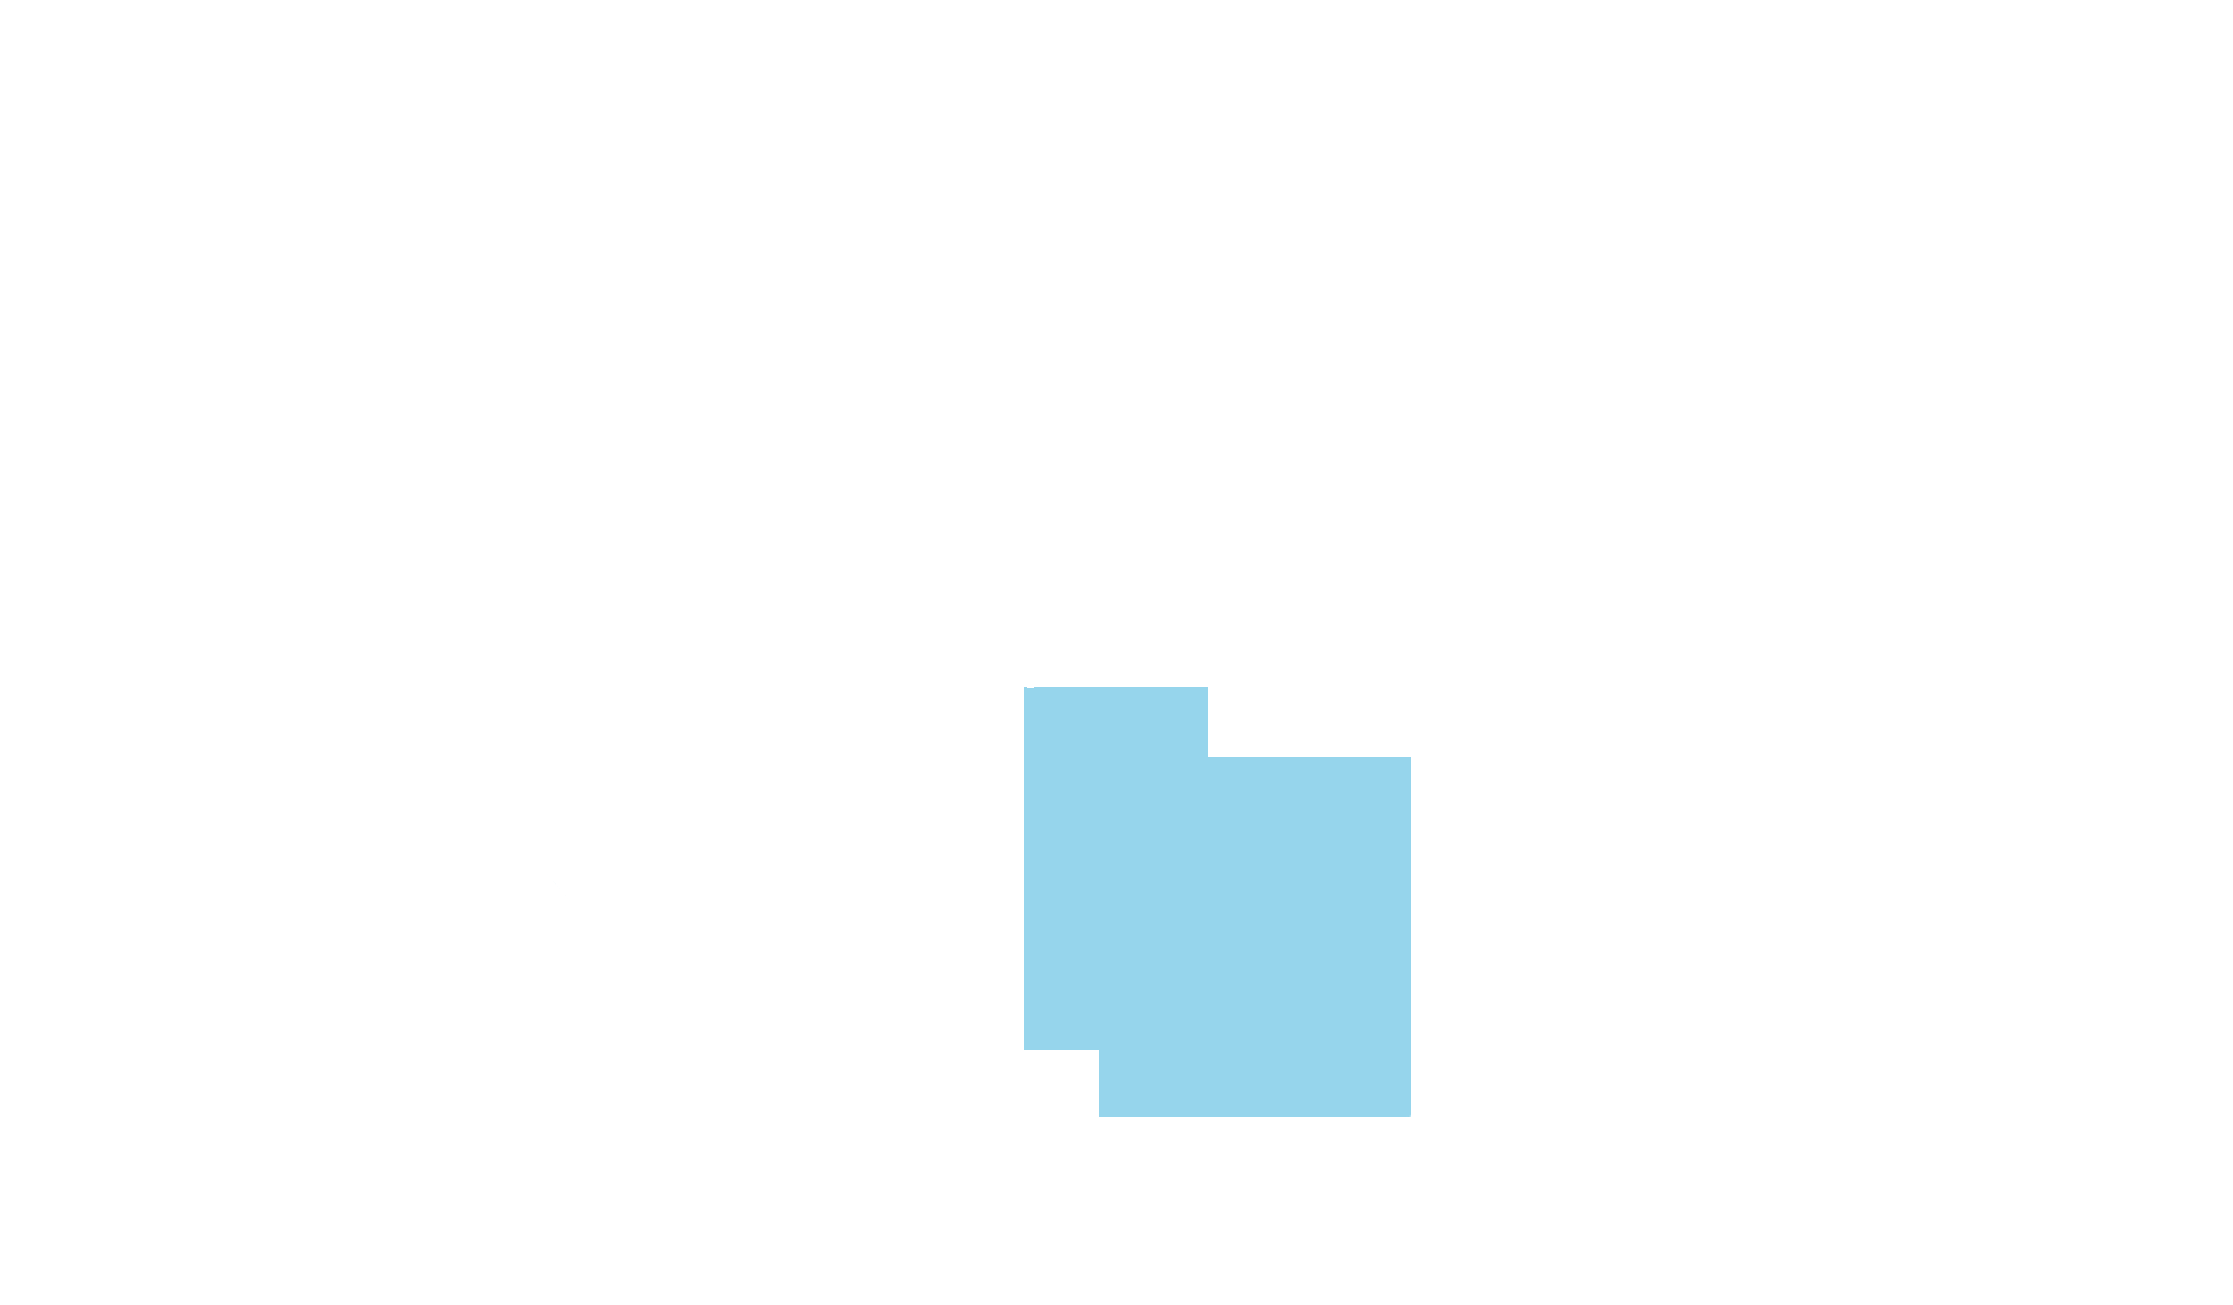
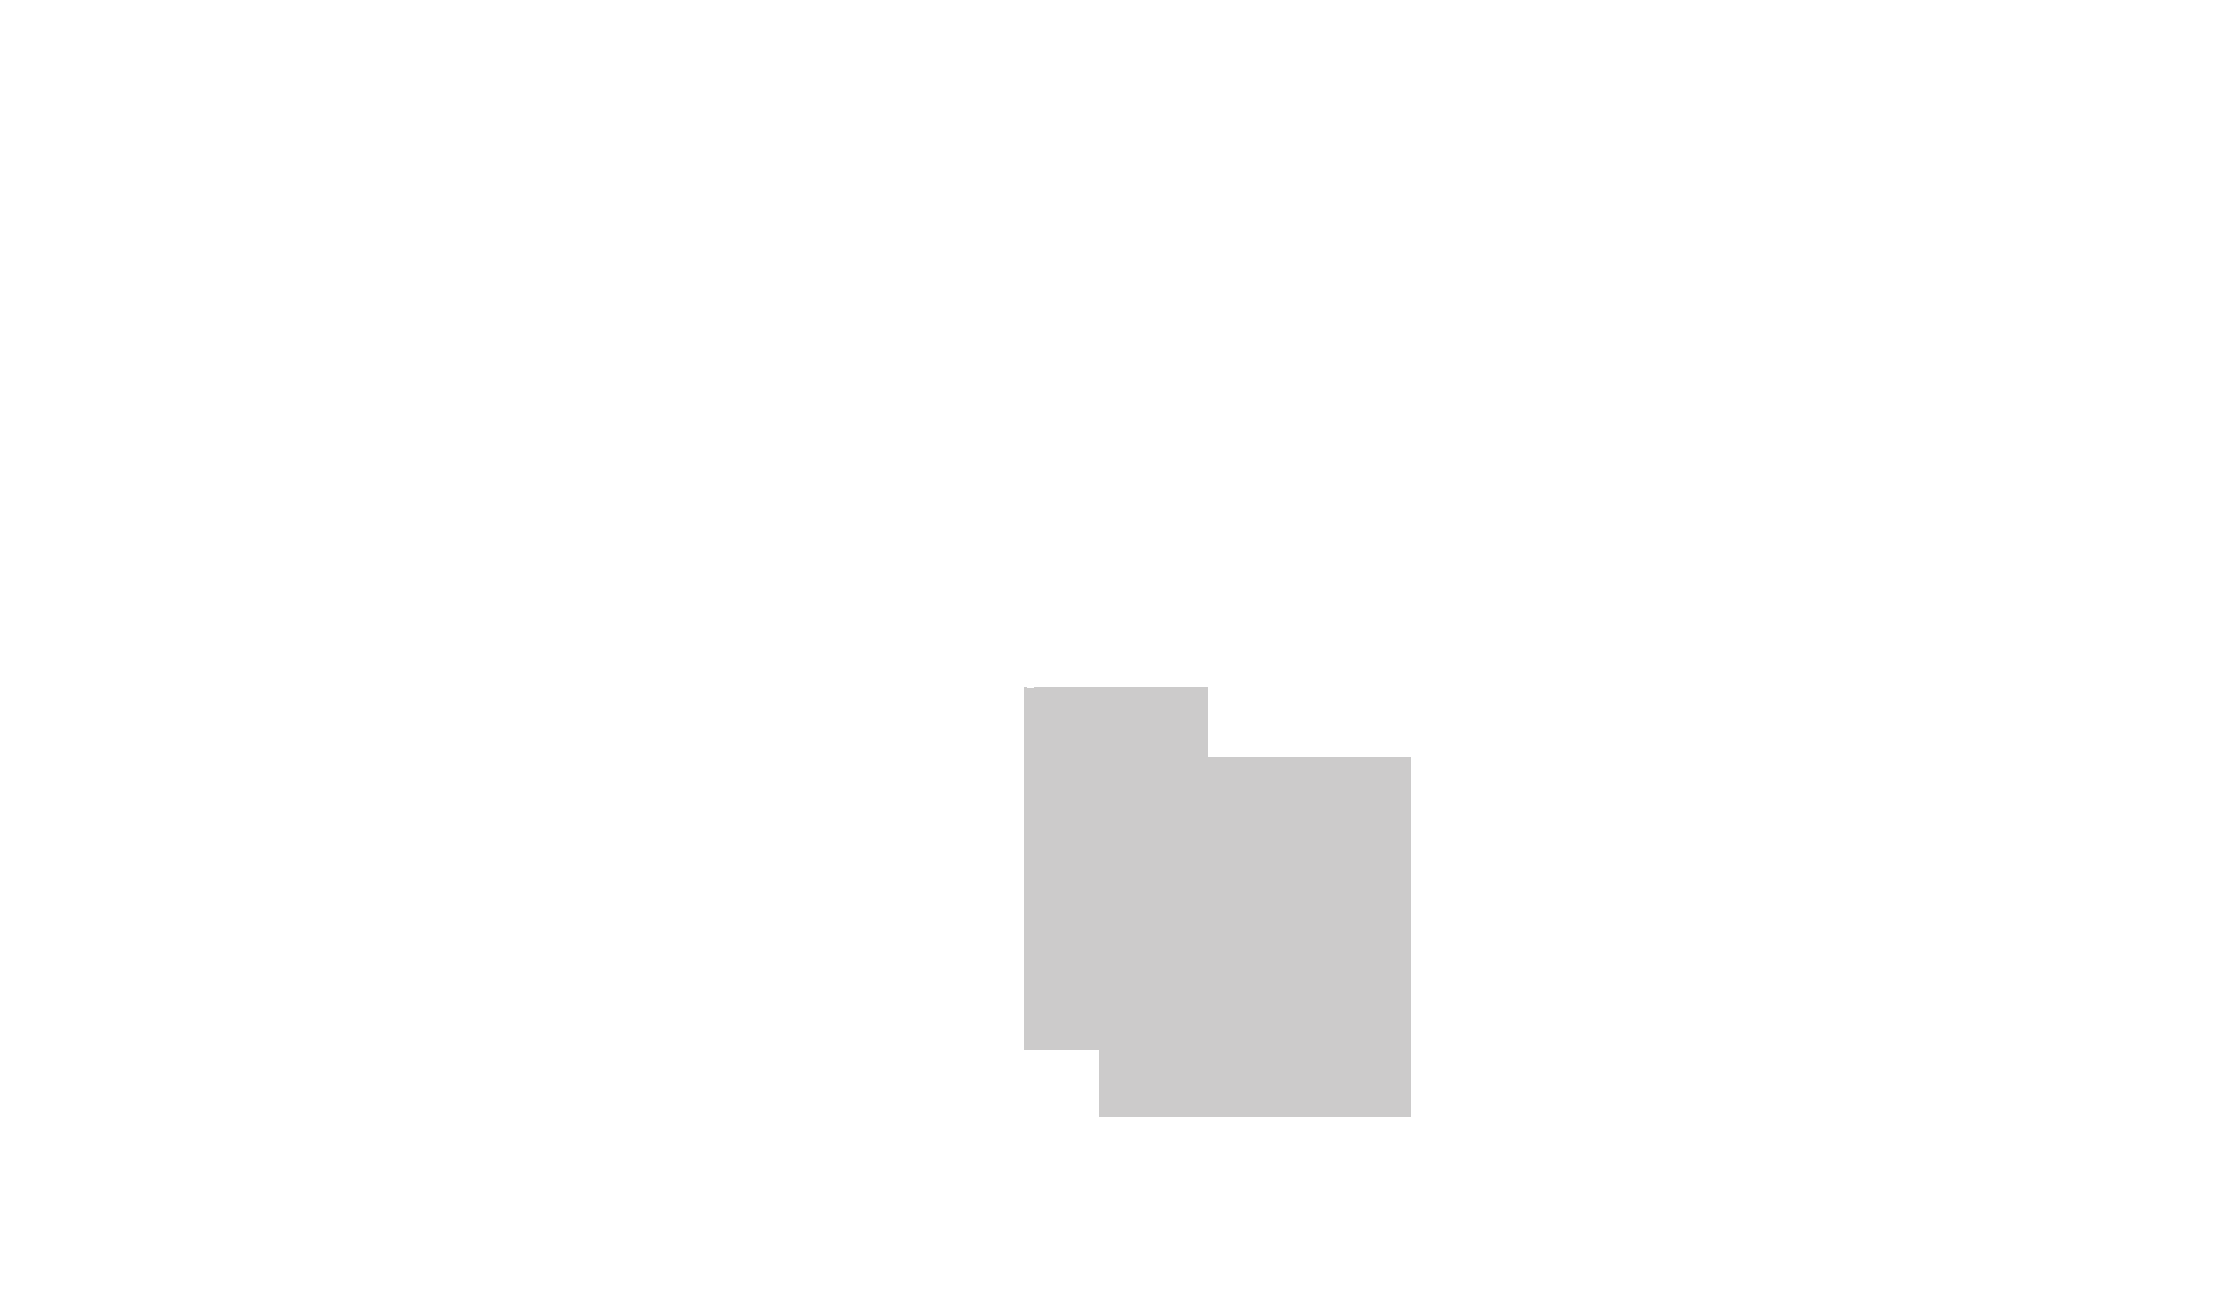
Updated Level Select colors for more contrast. Added panels around sliders to call more attention when selected. Added Random level select option.

Changed region(s): [[0.4326, 0.5211, 0.6489, 0.8582]]

diff --git a/Ricochet/Assets/_Scripts/Managers/LevelSelectManager.cs b/Ricochet/Assets/_Scripts/Managers/LevelSelectManager.cs
@@ -46,18 +46,10 @@ public class LevelSelectManager : MonoBehaviour
         {
             UI_LevelButton script = b.GetComponent<UI_LevelButton>();
             script.SetManager(this);
-            if (levels.Contains(script.GetBuildIndex()))
+            if (!defaultFound)
             {
-                if (!defaultFound)
-                {
-                    defaultSelectedLevelButton = b.gameObject;
-                    defaultFound = true;
-                }
-                b.interactable = true;
-            }
-            else
-            {
-                b.interactable = false;
+                defaultSelectedLevelButton = b.gameObject;
+                defaultFound = true;
             }
         }
 
@@ -107,6 +99,10 @@ public class LevelSelectManager : MonoBehaviour
 
     public void SetLoadLevel(BuildIndex levelInt)
     {
+        if (levelInt == BuildIndex.RANDOM)
+        {
+            levelInt = SelectRandomLevel();
+        }
         gameData.SetGameLevel(levelInt);
         loadLevelBuildIndex = levelInt;
         OpenConfirmationMenu();
@@ -140,6 +136,12 @@ public class LevelSelectManager : MonoBehaviour
     {
         confirmationMenu.gameObject.SetActive(true);
         EventSystem.current.SetSelectedGameObject(defaultConfirmationGameObject);
+    }
+
+    private BuildIndex SelectRandomLevel()
+    {
+        int level = Random.Range(0, 3);
+        return LevelSelect.glitchBallClassicLevels[level];
     }
     #endregion
 }

diff --git a/Ricochet/Assets/_Scripts/UI/UI_UpdateSliderLabel.cs b/Ricochet/Assets/_Scripts/UI/UI_UpdateSliderLabel.cs
@@ -6,12 +6,15 @@ public class UI_UpdateSliderLabel : MonoBehaviour, ISelectHandler, IDeselectHand
 {
 
     #region Inspector Variables
-    [SerializeField] private Text disc;
+    [SerializeField] private Text desc;
+    [SerializeField] private Image panel;
     [SerializeField] private Text label;
     [SerializeField] private Slider slider;
 
-    [SerializeField] private Color defaultColor = Color.white;
-    [SerializeField] private Color selectedColor = Color.red;
+    [SerializeField] private Color defaultTextColor = Color.white;
+    [SerializeField] private Color selectedTextColor = Color.red;
+    [SerializeField] private Color defaultPanelColor = Color.white;
+    [SerializeField] private Color selectedPanelColor = Color.red;
     #endregion
 
     #region Private Variables
@@ -52,12 +55,14 @@ public class UI_UpdateSliderLabel : MonoBehaviour, ISelectHandler, IDeselectHand
     #region ISelect and IDeselect Methods
     public void OnDeselect(BaseEventData eventData)
     {
-        disc.color = defaultColor;
+        desc.color = defaultTextColor;
+        panel.color = defaultPanelColor;
     }
 
     public void OnSelect(BaseEventData eventData)
     {
-        disc.color = selectedColor;
+        desc.color = selectedTextColor;
+        panel.color = selectedPanelColor;
     }
     #endregion
 

diff --git a/Ricochet/Assets/_Scripts/UI/UI_PreviewPanel.cs b/Ricochet/Assets/_Scripts/UI/UI_PreviewPanel.cs
@@ -14,6 +14,7 @@ public class UI_PreviewPanel : MonoBehaviour
     [SerializeField] private Sprite ElevatorSprite;
     [SerializeField] private Sprite OverTheTopSprite;
     [SerializeField] private Sprite TheVoidSprite;
+    [SerializeField] private Sprite RandomSprite;
 
     public void ChangeSprite(BuildIndex level)
     {
@@ -30,6 +31,9 @@ public class UI_PreviewPanel : MonoBehaviour
                 break;
             case BuildIndex.EMPTY_LEVEL:
                 _previewImage.sprite = TheVoidSprite;
+                break;
+            case BuildIndex.RANDOM:
+                _previewImage.sprite = RandomSprite;
                 break;
         }
     }

diff --git a/Ricochet/Assets/_Scripts/UI/UI_MenuButton.cs b/Ricochet/Assets/_Scripts/UI/UI_MenuButton.cs
@@ -4,7 +4,7 @@ using UnityEngine.UI;
 
 public class UI_MenuButton : MonoBehaviour, IDeselectHandler, ISelectHandler
 {
-    private Text text;
+    protected Text text;
 
     public void Awake()
     {
@@ -16,12 +16,12 @@ public class UI_MenuButton : MonoBehaviour, IDeselectHandler, ISelectHandler
         text.color = Color.white;
     }
 
-    public void OnDeselect(BaseEventData eventData)
+    public virtual void OnDeselect(BaseEventData eventData)
     {
         text.color = Color.white;
     }
 
-    public void OnSelect(BaseEventData eventData)
+    public virtual void OnSelect(BaseEventData eventData)
     {
         text.color = Color.yellow;
     }

diff --git a/Ricochet/Assets/_Scripts/UI/UI_LevelButton.cs b/Ricochet/Assets/_Scripts/UI/UI_LevelButton.cs
@@ -11,7 +11,13 @@ public class UI_LevelButton : UI_MenuButton, ISelectHandler
 
     public new void OnSelect(BaseEventData eventData)
     {
+        text.color = Color.white;
         previewPanel.ChangeSprite(buildIndex);
+    }
+
+    public override void OnDeselect(BaseEventData eventData)
+    {
+        text.color = Color.black;
     }
 
     public BuildIndex GetBuildIndex()

diff --git a/Ricochet/Assets/_Scripts/References/Enumerables.cs b/Ricochet/Assets/_Scripts/References/Enumerables.cs
@@ -10,7 +10,8 @@
         ELEVATOR,
         UP_N_OVER_WIDE,
         EMPTY_LEVEL,
-        END_GAME
+        END_GAME,
+        RANDOM
     }
 
     public enum EPowerUp
